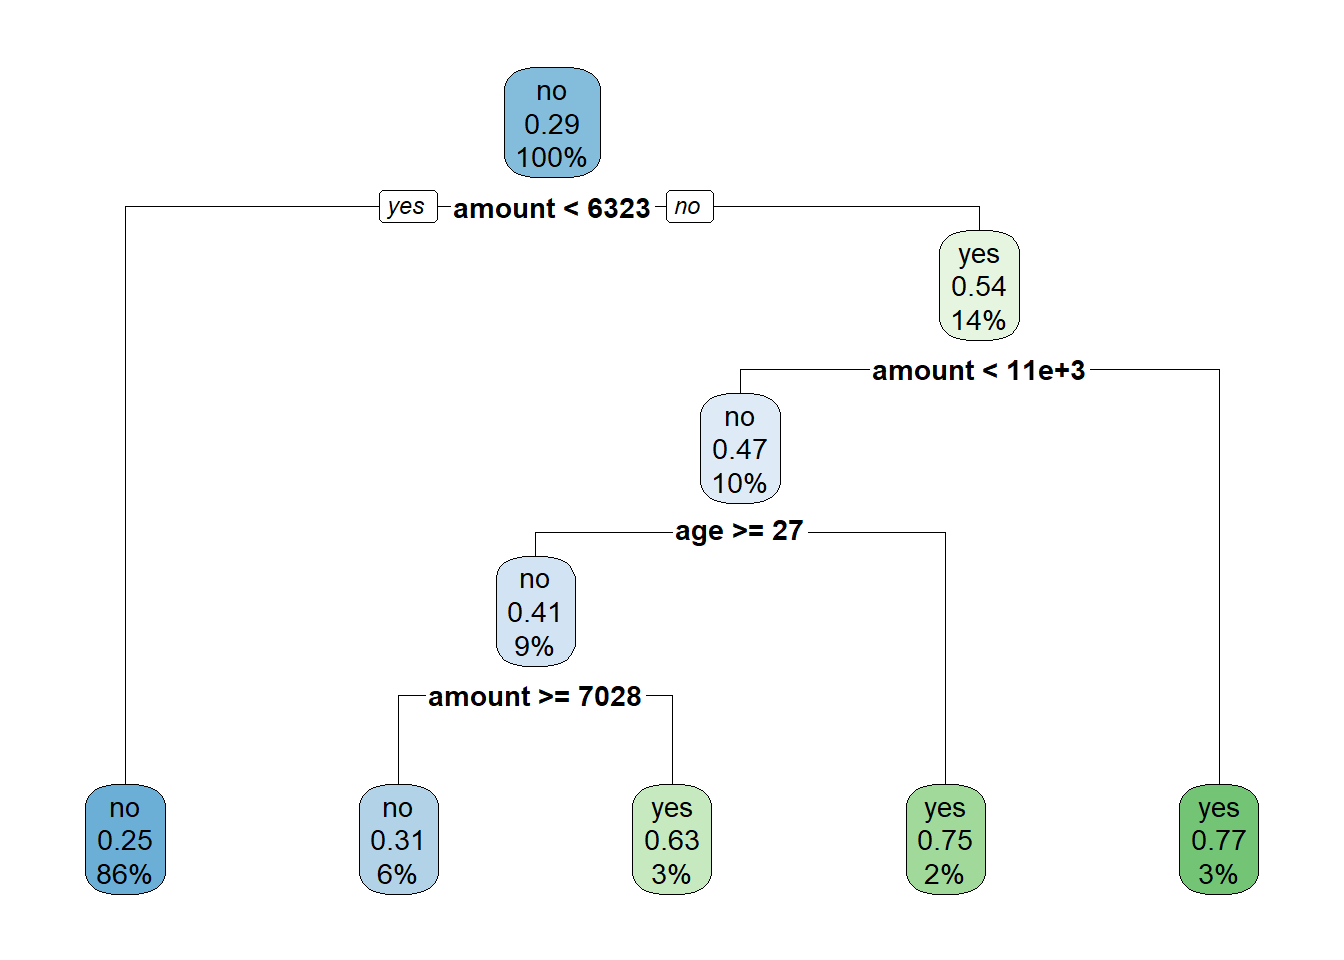
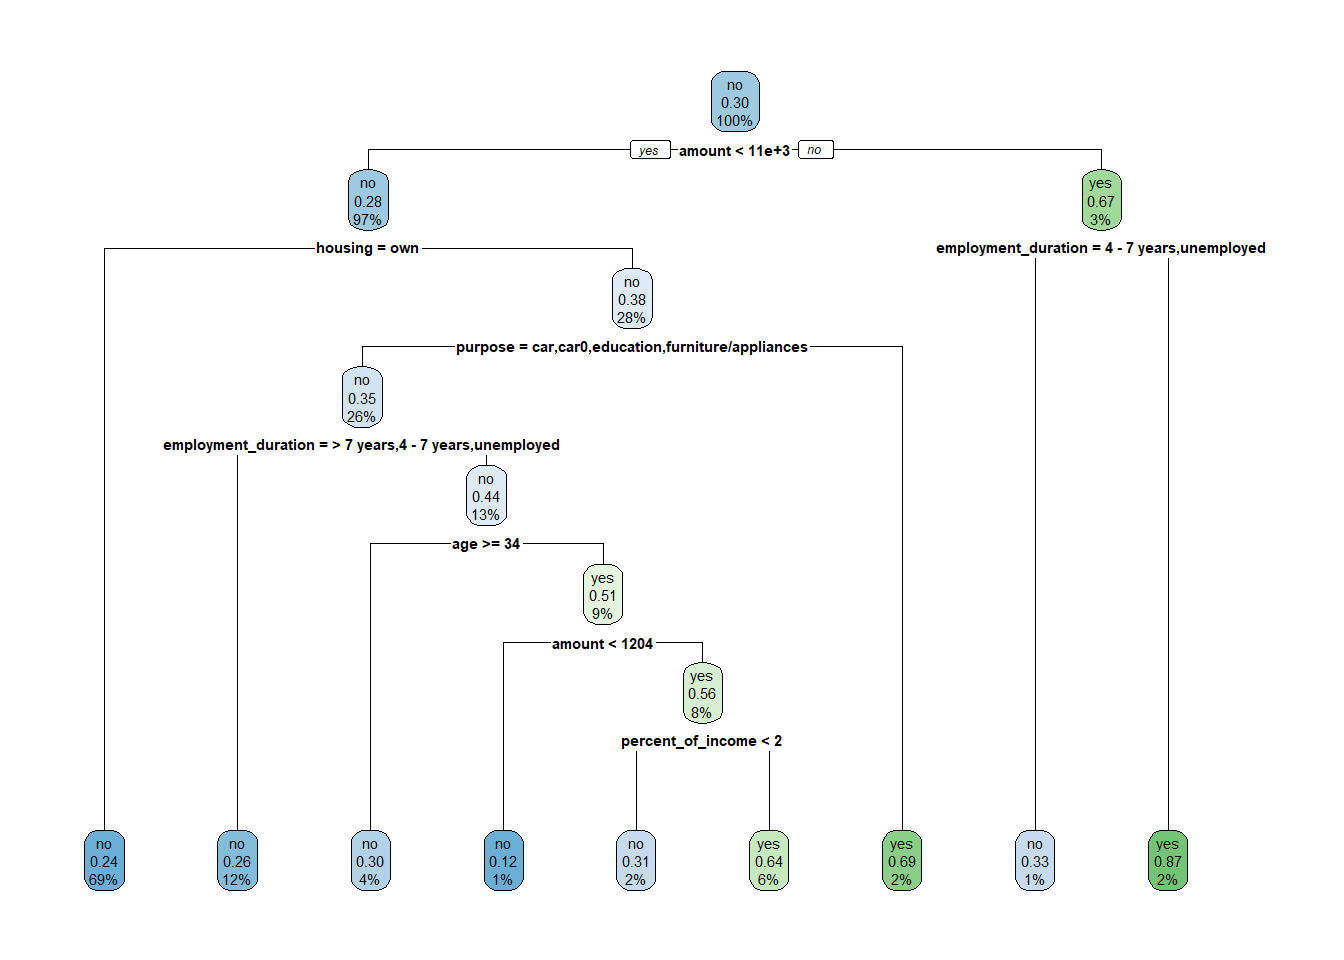
oppdatert

diff --git a/docs/cart.html b/docs/cart.html
@@ -587,12 +587,16 @@ code span.wa { color: #60a0b0; font-weight: bold; font-style: italic; } /* Warni
 <div class="sourceCode cell-code" id="cb5"><pre class="sourceCode r code-with-copy"><code class="sourceCode r"><span id="cb5-1"><a href="#cb5-1" aria-hidden="true" tabindex="-1"></a><span class="fu">rpart.rules</span>(credit_tree, <span class="at">extra=</span><span class="dv">4</span>)  </span></code><button title="Copy to Clipboard" class="code-copy-button"><i class="bi"></i></button></pre></div>
 </details>
 <div class="cell-output cell-output-stdout">
-<pre><code> default   no yes                                          
-      no [.75 .25] when amount &lt;  6323                     
-      no [.69 .31] when amount is 7028 to 10842 &amp; age &gt;= 27
-     yes [.37 .63] when amount is 6323 to  7028 &amp; age &gt;= 27
-     yes [.25 .75] when amount is 6323 to 10842 &amp; age &lt;  27
-     yes [.23 .77] when amount &gt;=         10842            </code></pre>
+<pre><code> default   no yes                                                                                                                                                                                                                             
+      no [.88 .12] when amount &lt;   1204          &amp; housing is other or rent &amp; employment_duration is                &lt; 1 year or 1 - 4 years &amp; purpose is car or car0 or education or furniture/appliances &amp; age &lt;  34                         
+      no [.76 .24] when amount &lt;  10918          &amp; housing is           own                                                                                                                                                                   
+      no [.74 .26] when amount &lt;  10918          &amp; housing is other or rent &amp; employment_duration is &gt; 7 years or 4 - 7 years or unemployed &amp; purpose is car or car0 or education or furniture/appliances                                     
+      no [.70 .30] when amount &lt;  10918          &amp; housing is other or rent &amp; employment_duration is                &lt; 1 year or 1 - 4 years &amp; purpose is car or car0 or education or furniture/appliances &amp; age &gt;= 34                         
+      no [.69 .31] when amount is  1204 to 10918 &amp; housing is other or rent &amp; employment_duration is                &lt; 1 year or 1 - 4 years &amp; purpose is car or car0 or education or furniture/appliances &amp; age &lt;  34 &amp; percent_of_income &lt;  2
+      no [.67 .33] when amount &gt;=          10918                            &amp; employment_duration is              4 - 7 years or unemployed                                                                                                   
+     yes [.36 .64] when amount is  1204 to 10918 &amp; housing is other or rent &amp; employment_duration is                &lt; 1 year or 1 - 4 years &amp; purpose is car or car0 or education or furniture/appliances &amp; age &lt;  34 &amp; percent_of_income &gt;= 2
+     yes [.31 .69] when amount &lt;  10918          &amp; housing is other or rent                                                                 &amp; purpose is                          business or renovations                                     
+     yes [.13 .87] when amount &gt;=          10918                            &amp; employment_duration is   &lt; 1 year or &gt; 7 years or 1 - 4 years                                                                                                   </code></pre>
 </div>
 </div>
 <p>Vi kan så skrive ut confusion matrix.</p>
@@ -605,8 +609,8 @@ code span.wa { color: #60a0b0; font-weight: bold; font-style: italic; } /* Warni
 <div class="cell-output cell-output-stdout">
 <pre><code>           
 rpart_class  no yes
-        no  480 167
-        yes  15  38</code></pre>
+        no  481 160
+        yes  23  52</code></pre>
 </div>
 <details>
 <summary>Code</summary>
@@ -617,29 +621,29 @@ rpart_class  no yes
 
           Reference
 Prediction  no yes
-       no  480 167
-       yes  15  38
-                                          
-               Accuracy : 0.74            
-                 95% CI : (0.7058, 0.7721)
-    No Information Rate : 0.7071          
-    P-Value [Acc &gt; NIR] : 0.02977         
-                                          
-                  Kappa : 0.1981          
-                                          
- Mcnemar's Test P-Value : &lt; 2e-16         
-                                          
-            Sensitivity : 0.9697          
-            Specificity : 0.1854          
-         Pos Pred Value : 0.7419          
-         Neg Pred Value : 0.7170          
-             Prevalence : 0.7071          
-         Detection Rate : 0.6857          
-   Detection Prevalence : 0.9243          
-      Balanced Accuracy : 0.5775          
-                                          
-       'Positive' Class : no              
-                                          </code></pre>
+       no  481 160
+       yes  23  52
+                                         
+               Accuracy : 0.7444         
+                 95% CI : (0.7108, 0.776)
+    No Information Rate : 0.7039         
+    P-Value [Acc &gt; NIR] : 0.009137       
+                                         
+                  Kappa : 0.2456         
+                                         
+ Mcnemar's Test P-Value : &lt; 2.2e-16      
+                                         
+            Sensitivity : 0.9544         
+            Specificity : 0.2453         
+         Pos Pred Value : 0.7504         
+         Neg Pred Value : 0.6933         
+             Prevalence : 0.7039         
+         Detection Rate : 0.6718         
+   Detection Prevalence : 0.8953         
+      Balanced Accuracy : 0.5998         
+                                         
+       'Positive' Class : no             
+                                         </code></pre>
 </div>
 </div>
 <div class="cell">
@@ -653,26 +657,26 @@ Prediction  no yes
 
           Reference
 Prediction  no yes
-       no  190  90
-       yes  15   5
+       no  184  72
+       yes  12  16
                                           
-               Accuracy : 0.65            
-                 95% CI : (0.5931, 0.7039)
-    No Information Rate : 0.6833          
-    P-Value [Acc &gt; NIR] : 0.9029          
+               Accuracy : 0.7042          
+                 95% CI : (0.6474, 0.7567)
+    No Information Rate : 0.6901          
+    P-Value [Acc &gt; NIR] : 0.3291          
                                           
-                  Kappa : -0.0261         
+                  Kappa : 0.1485          
                                           
- Mcnemar's Test P-Value : 5.136e-13       
+ Mcnemar's Test P-Value : 1.215e-10       
                                           
-            Sensitivity : 0.92683         
-            Specificity : 0.05263         
-         Pos Pred Value : 0.67857         
-         Neg Pred Value : 0.25000         
-             Prevalence : 0.68333         
-         Detection Rate : 0.63333         
-   Detection Prevalence : 0.93333         
-      Balanced Accuracy : 0.48973         
+            Sensitivity : 0.9388          
+            Specificity : 0.1818          
+         Pos Pred Value : 0.7188          
+         Neg Pred Value : 0.5714          
+             Prevalence : 0.6901          
+         Detection Rate : 0.6479          
+   Detection Prevalence : 0.9014          
+      Balanced Accuracy : 0.5603          
                                           
        'Positive' Class : no              
                                           </code></pre>

diff --git a/docs/references.html b/docs/references.html
@@ -287,6 +287,19 @@ div.csl-indent {
 Berk, Richard. 2016. <em>Statistical Learning from a Regression
 Perspective</em>. USA: Springer.
 </div>
+<div id="ref-berk2016b" class="csl-entry" role="doc-biblioentry">
+Berk, Richard A., Susan B. Sorenson, and Geoffrey Barnes. 2016.
+<span>“Forecasting Domestic Violence: A Machine Learning Approach to
+Help Inform Arraignment Decisions.”</span> <em>Journal of Empirical
+Legal Studies</em> 13: 94–115. <a href="https://doi.org/10.1111/jels.12098">https://doi.org/10.1111/jels.12098</a>.
+</div>
+<div id="ref-caspi2017" class="csl-entry" role="doc-biblioentry">
+Caspi, Avshalom, Renate M. Houts, Daniel W. Belsky, Honalee Harrington,
+Sean Hogan, Sandhya Ramrakha, Richie Poulton, and Terrie E. Moffitt.
+2017. <span>“Childhood Forecasting of a Small Segment of the Population
+with Large Economic Burden.”</span> <em>Nature Human Behavior</em> 1
+(5): 223–40. https://doi.org/<a href="https://doi-org.ezproxy.uio.no/10.1038/s41562-016-0005">https://doi-org.ezproxy.uio.no/10.1038/s41562-016-0005</a>.
+</div>
 <div id="ref-hsieh2008" class="csl-entry" role="doc-biblioentry">
 Hsieh, John. 2008. <span>“Receiver Operating Characteristic (ROC)
 Curve.”</span> In <em>Encyclopedia of Epidemiology</em>, 895–98.

diff --git a/docs/unsupervised.html b/docs/unsupervised.html
@@ -456,7 +456,7 @@ code span.wa { color: #60a0b0; font-weight: bold; font-style: italic; } /* Warni
 <div class="cell-output cell-output-stdout">
 <pre><code>
  1  2 
-15  7 </code></pre>
+ 7 15 </code></pre>
 </div>
 <details>
 <summary>Code</summary>
